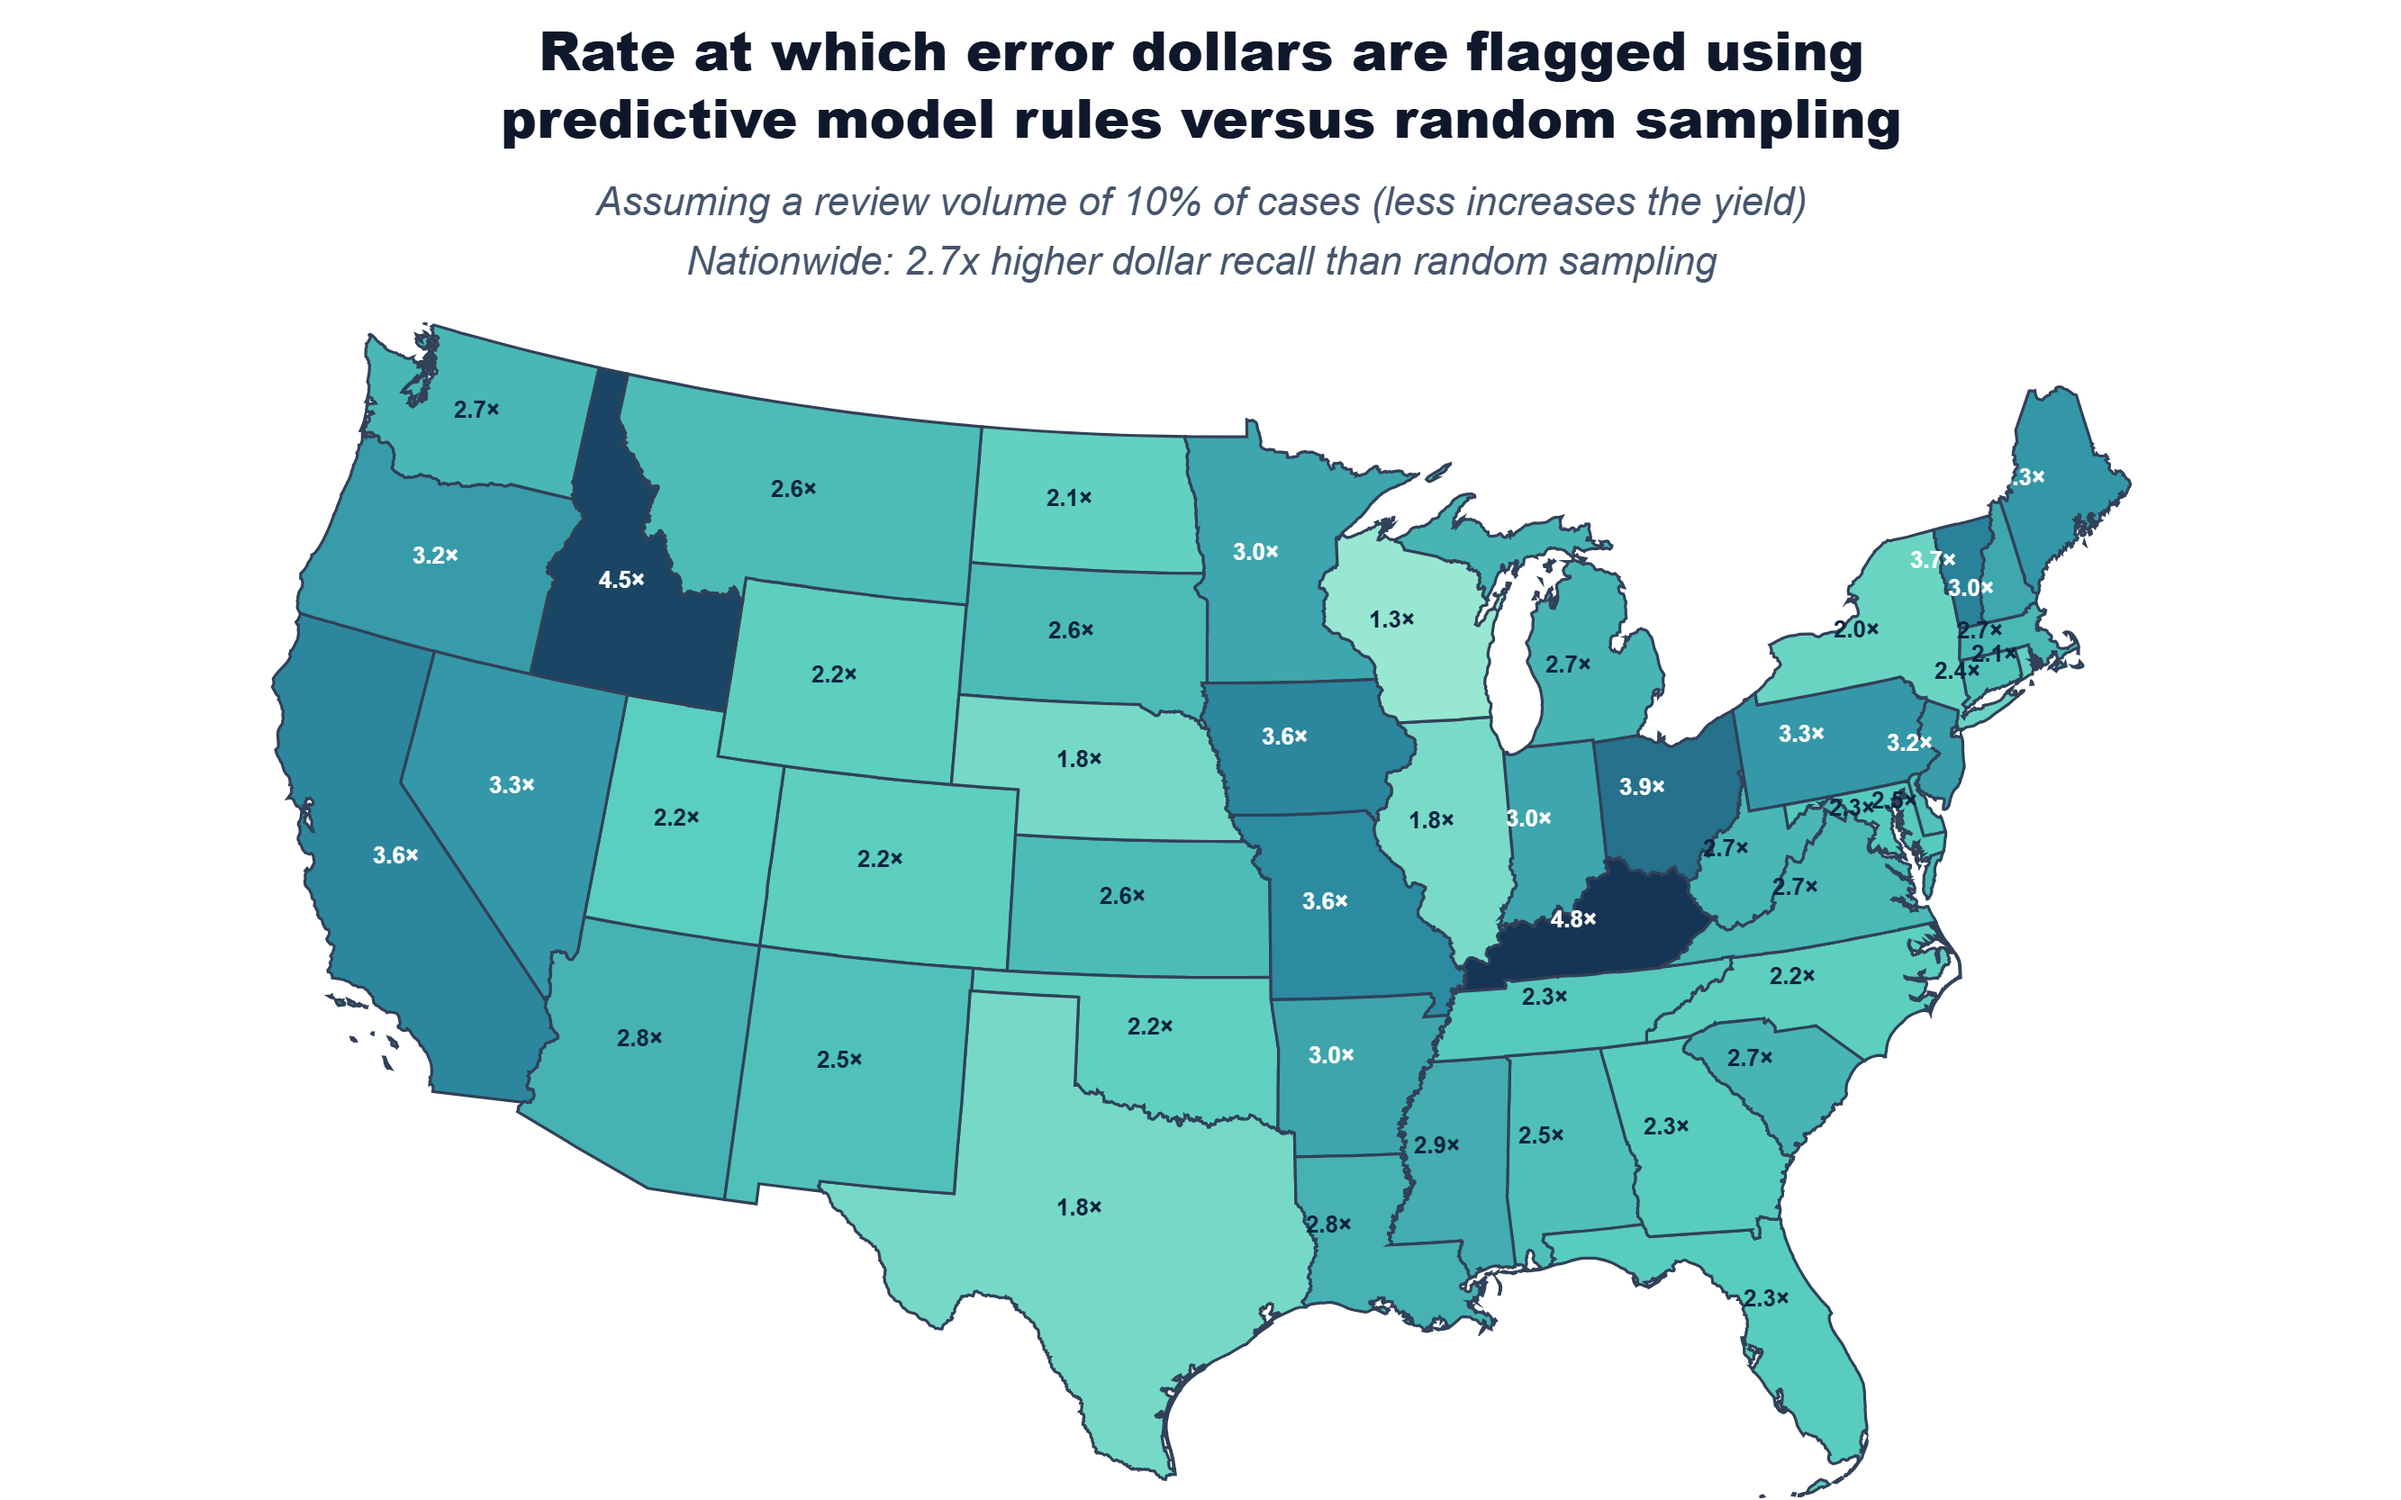
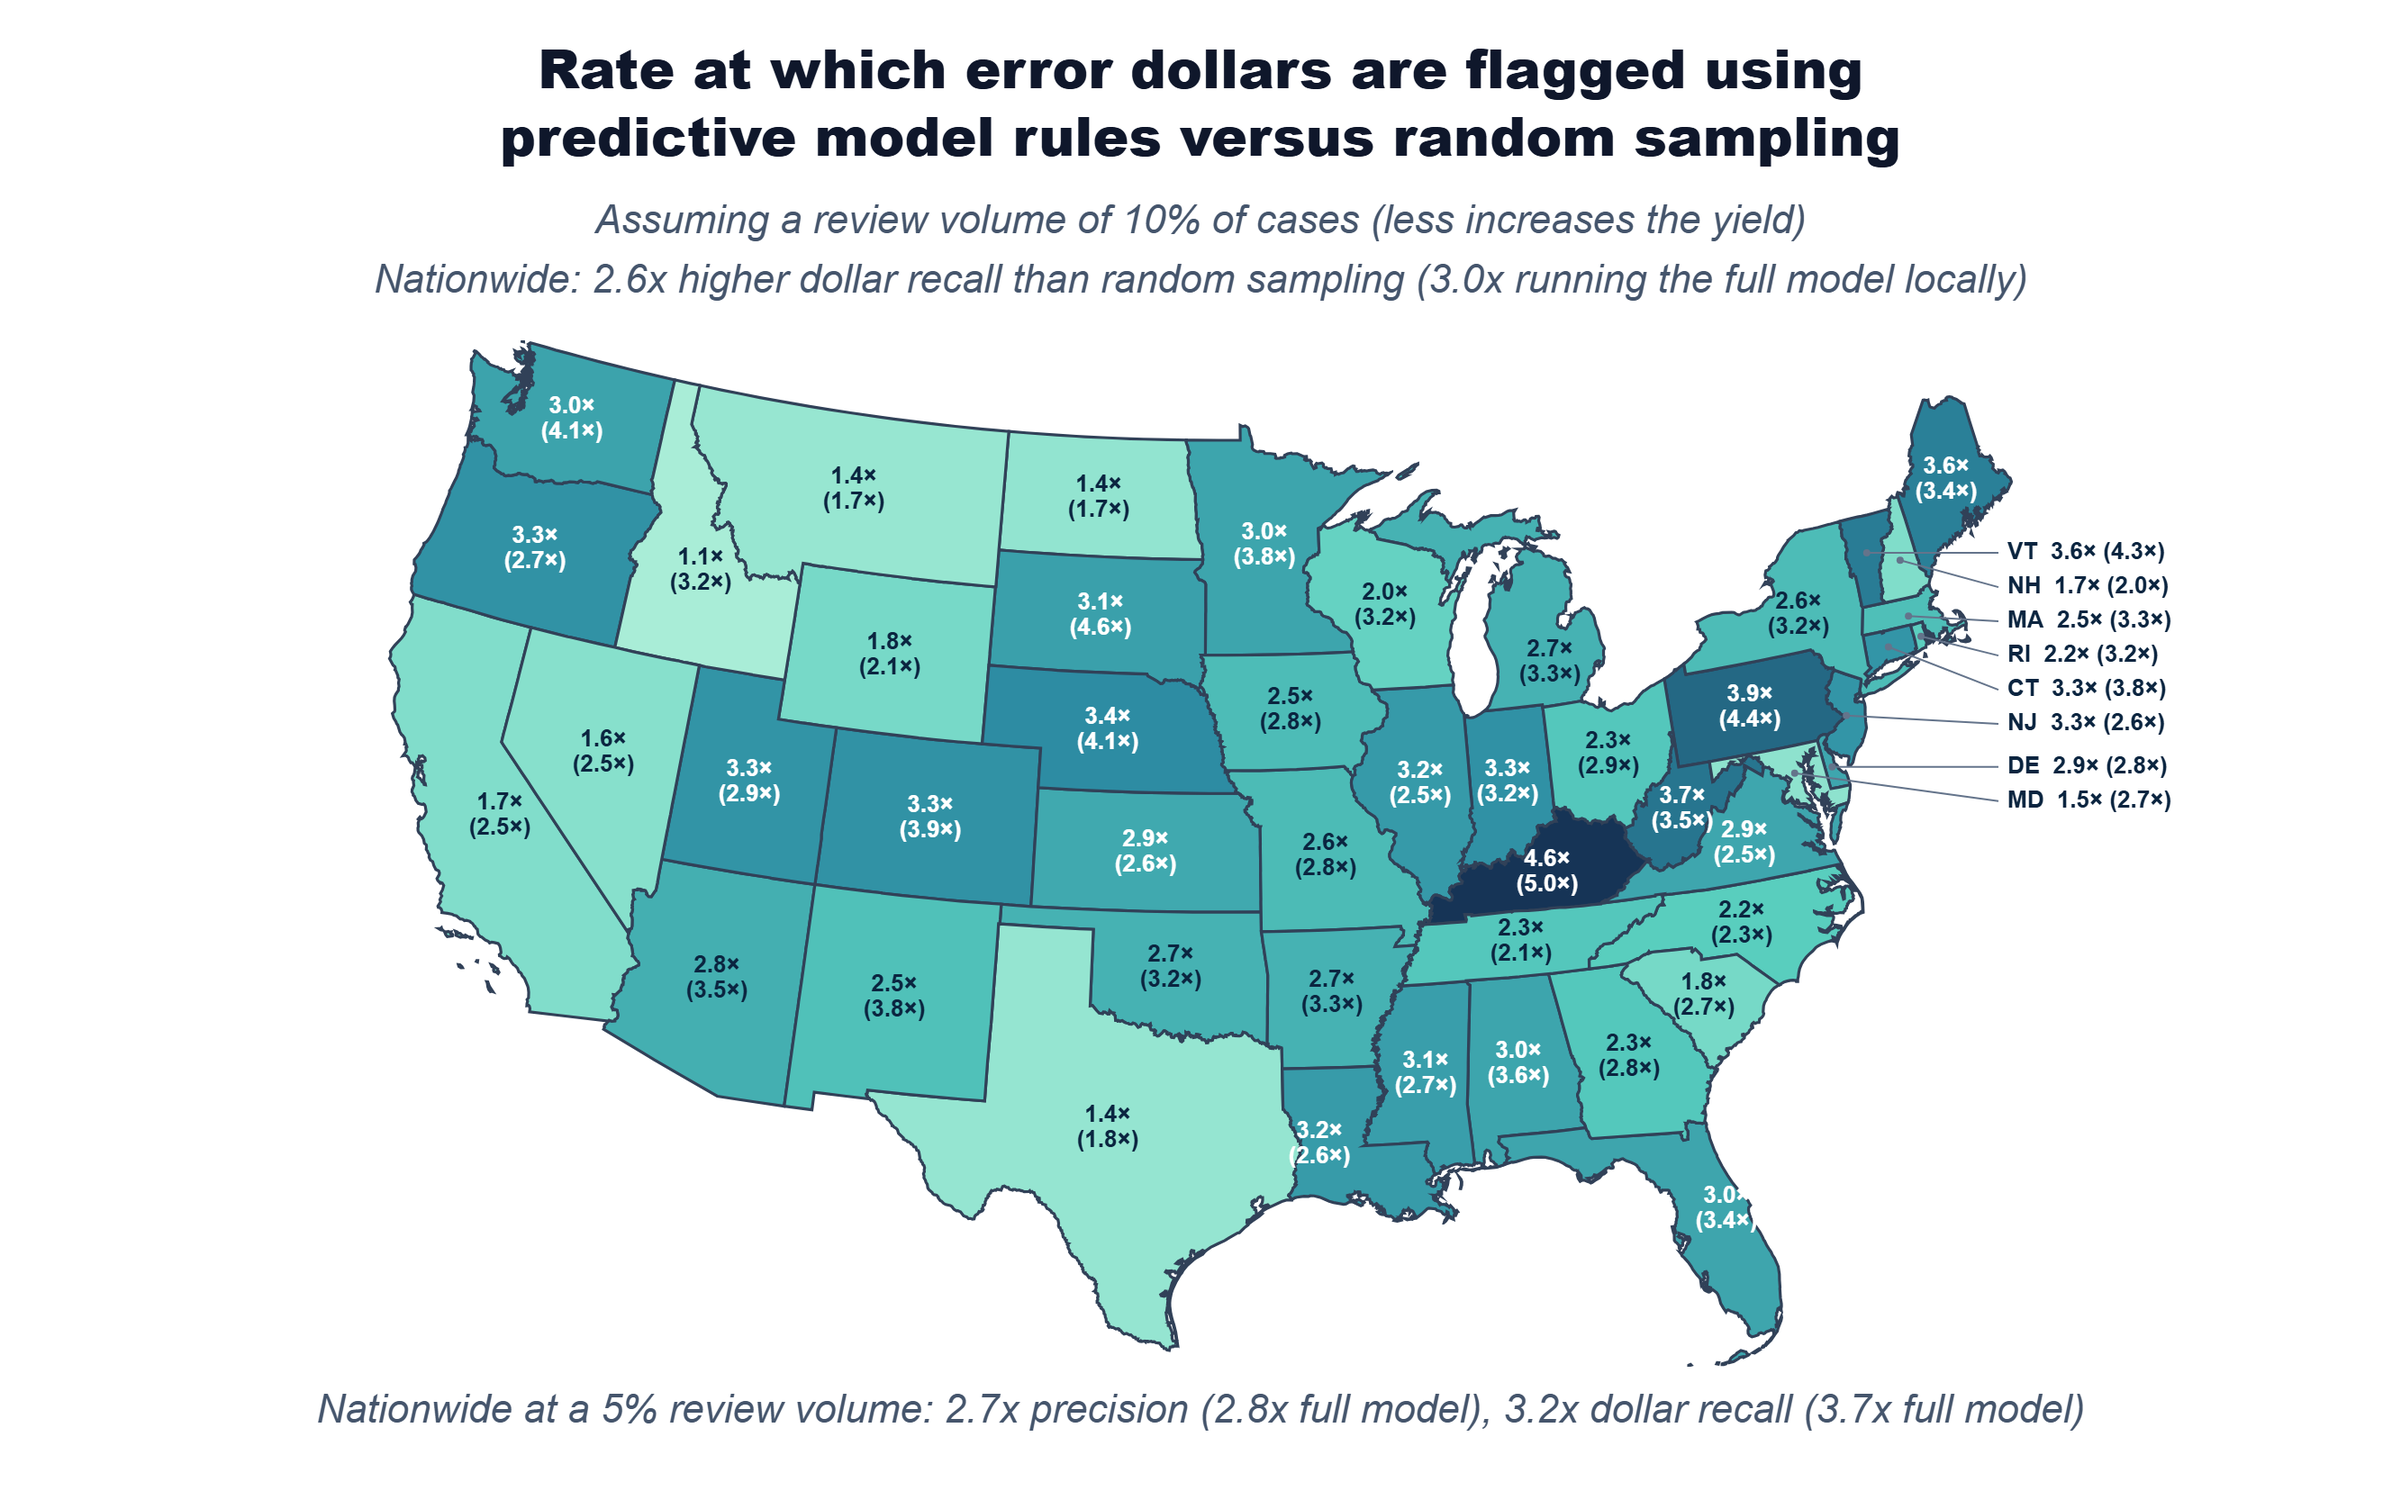
README: the results map at the top is the current one (workbook vote score on f1109, full model in parentheses); workbooks are .xlsb
The image is the results map repo's image.png (13a81da): FY2024 dollar recall
at a 10% review volume, 2.6x nationwide for the workbook vote score and 3.0x
for the per-case model. It replaces the v2.6.0 rule-list map.

diff --git a/README.md b/README.md
@@ -1,12 +1,12 @@
 # snap_qc
 
-![Map: how many times more error dollars the delivered rule lists flag than random sampling at a 10% review volume, by state; 2.7x nationwide](presentation_figures/state_dollar_recall_map_budget10.png)
+![Map: how many times more error dollars the workbook vote score flags than random sampling at a 10% review volume, by state, with the full per-case model in parentheses; 2.6x nationwide (3.0x for the model)](presentation_figures/state_dollar_recall_map_budget10.png)
 
 Code and data for modeling SNAP payment errors as interpretable, easy-to-implement decision rules.
 
 Released under the Apache 2.0 license: use and build on the code, ideas, or results freely.
 
-**State agencies:** download your state's ready-made Excel workbook (`SNAP_flagging_rules_<ST>.xlsx`) from the [latest release](https://github.com/giannella/snap_qc/releases/latest). Paste your internal cases into its yellow columns and every figure recomputes; no R or Python needed on your side.
+**State agencies:** download your state's ready-made Excel workbook (`SNAP_flagging_rules_<ST>.xlsb`) from the [latest release](https://github.com/giannella/snap_qc/releases/latest). Paste your internal cases into its yellow columns and every figure recomputes; no R or Python needed on your side.
 
 **[Updates & compatibility](VERSIONING.md)** · **[Modeling research and takeaways](GUIDANCE.md)** · **[Data dictionary](DATA_DICTIONARY.md)** · **[Changelog](CHANGELOG.md)**
 
